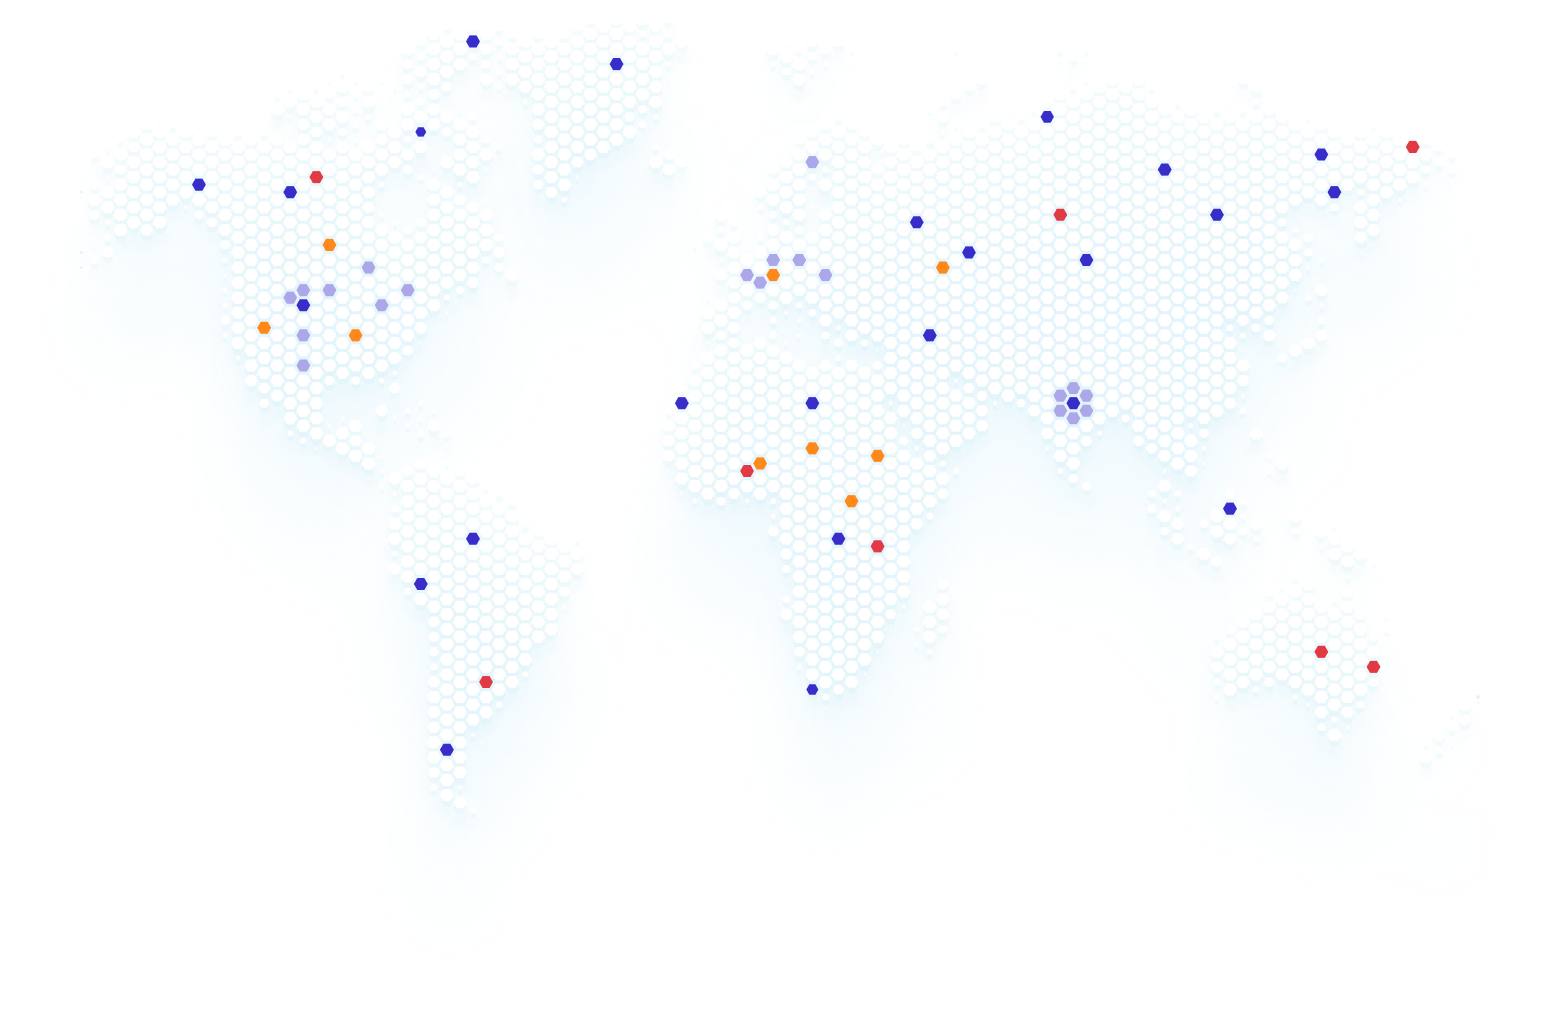
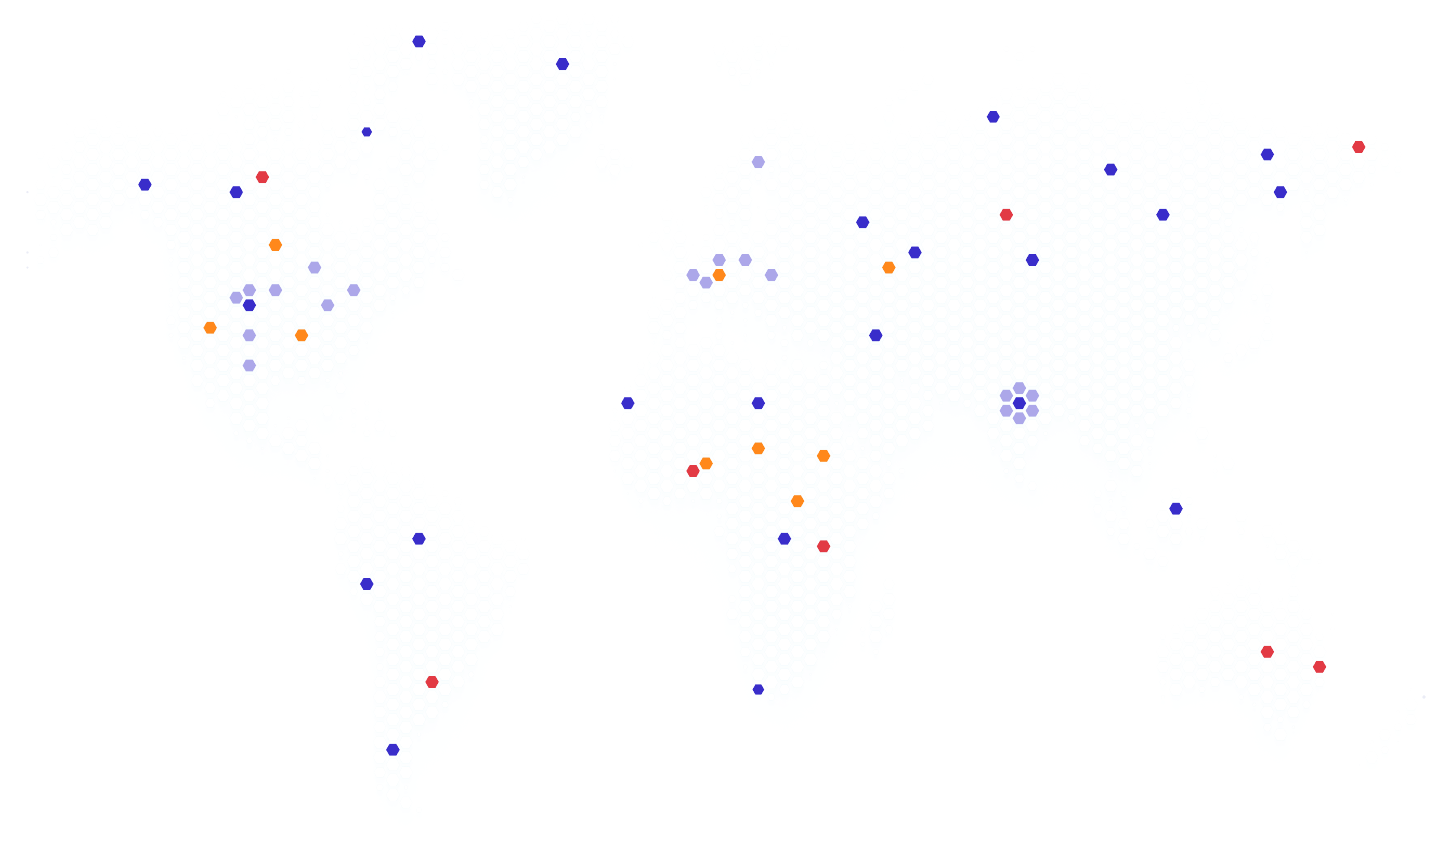
complete our network with cards and remove primary-border

diff --git a/src/components/Main.jsx b/src/components/Main.jsx
@@ -6,26 +6,26 @@ import garnerLogo from '../../public/images/garnier.png'
 import {Link} from 'react-router-dom'
 function Main() {
   return (
-    <main className='primary-border   '>
+    <main className=' '>
       {/* text area  */}
       <div className='h-[45vh] flex-col  justify-items-center gap-20 p-[48px]'>
-              <p className=' w-[45vw] font-bold text-[44px] primary-border text-center'>Solve problem with an integrated agency.</p>
+              <p className=' w-[45vw] font-bold text-[44px]  text-center'>Solve problem with an integrated agency.</p>
               <p className=' my-4 w-[46vw] text-center'>Ehya is the Instagram analytics platform teams use to stay focused on the goals, track 
               engagement for report your business .</p>
       </div>
       {/* our profile and more info button  */}
-      <div className='primary-border h-[10vh]  flex justify-center items-center gap-4'>
+      <div className=' h-[10vh]  flex justify-center items-center gap-4'>
         <button className='text-white bg-[#0075FF] p-[12px] px-[32px] rounded-bl-[40px] rounded-r-[20px]'>See our portfolio</button>
-        <button className=' border-2 border-solid border-gray-300 text-blue-700 bg-[#ffff] p-[12px] px-[36px] rounded-bl-[40px] rounded-r-[20px]'>More info</button>
+        <button className=' border-2 border-solid border-gray-300 text-blue-700 bg-[#ffff] p-[12px] px-[36px] rounded-bl-[40px] rounded-r-[20px] hover:bg-blue-500 hover:text-white'>More info</button>
       </div>
       {/* dashboard */}
-      <div className='primary-border flex justify-center items-center h-[98vh]'>
-        <img src={dashboard} alt="dashboard image" className=' primary-border  h-[80vh]' />
+      <div className=' flex justify-center items-center h-[98vh]'>
+        <img src={dashboard} alt="dashboard image" className='   h-[80vh]' />
       </div>
       {/* Company logos */}
-      <div className='primary-border flex justify-center items-center gap-14 h-[28vh]'>
-        <img src={logoGroup} alt="company logo" className='primary-border' />
-        <img src={garnerLogo} alt="garner logo" className='primary-border'/>
+      <div className=' flex justify-center items-center gap-14 h-[28vh]'>
+        <img src={logoGroup} alt="company logo" className='' />
+        <img src={garnerLogo} alt="garner logo" className=''/>
       </div>
     </main>
   )

diff --git a/src/components/OurNetwork.jsx b/src/components/OurNetwork.jsx
@@ -1,0 +1,57 @@
+import React from 'react'
+import map from '../../public/images/map.png'
+import OurNewtworksCard from './OurNewtworksCard'
+import bagladeshFlag from '../../public/images/bangladeshFlag-icon.jpg'
+import unitedState from '../../public/images/unitedState.webp'
+import australia from '../../public/images/Australia.png'
+import china from '../../public/images/Flag-China.webp'
+
+
+const OurNetworkData=[
+    {
+        img:bagladeshFlag,
+        country:'Bangladesh',
+        desc:"Event madness gathering innoies, & tech enthusiasts in Speced."
+    },
+    {
+        img:unitedState,
+        country:'United States',
+        desc:"Event madness gathering innoies, & tech enthusiasts in Speced."
+    },
+    {
+        img:australia,
+        country:'Australia',
+        desc:"Event madness gathering innoies, & tech enthusiasts in Speced."
+    },
+    {
+        img:china,
+        country:'China',
+        desc:"Event madness gathering innoies, & tech enthusiasts in Speced."
+    }
+]
+
+function OurNetwork() {
+  return (
+    <div className=' px-[110px] h-[166vh] w-[100%] mt-10'>
+        <div className='h-[100%] w-[100%]  bg-[#E2F3F9]'>
+            {/* title */}
+            <div className='h-[30vh] w-[100%]  flex justify-center items-center '>
+                <p className='w-[22vw] text-center font-bold text-[26px]'>Our network & world 
+                        work details.</p>
+            </div>
+            {/* map */}
+            <div className='flex justify-center'>
+                <img src={map} alt="map image" className='h-[98vh] '/>
+            </div>
+            {/* cards */}
+            <div className=' px-[42px] flex gap-5'>
+                {OurNetworkData.map((element,index)=>{
+                    return <OurNewtworksCard key={index} img={element.img} country={element.country} desc={element.desc}/>
+                })}
+            </div>
+        </div>
+    </div>
+  )
+}
+
+export default OurNetwork

diff --git a/src/components/WhyWeBest.jsx b/src/components/WhyWeBest.jsx
@@ -18,16 +18,16 @@ const WhyWeBestCardData=[
 ]
 function WhyWeBest() {
   return (
-     <div className='px-[110px] pl-[15vw] flex primary-border h-[80vh] relative'>
-        <div className='primary-border  w-[35%] h-[100%] rounded-[20px] bg-[#FFA31833]'>
+     <div className='px-[110px] pl-[15vw] flex  h-[80vh] relative'>
+        <div className='  w-[35%] h-[100%] rounded-[20px] bg-[#FFA31833]'>
                 <img src={clayMakup} alt="laptop image"  className='h-[68vh] absolute z-1 top-10 left-0'/>
         </div>
-        <div className='px-[40px] flex flex-col justify-center items-start primary-border w-[75%] h-[100%] gap-3'>
-                <div className='primary-border h-[25vh] w-[100%]'>
+        <div className='px-[40px] flex flex-col justify-center items-start  w-[75%] h-[100%] gap-3'>
+                <div className=' h-[25vh] w-[100%]'>
                     <p className='font-bold text-[40px]'>Why we best ?</p>
                     <p className='text-[#7D82A1]'>Don’t waste time on search manual tasks. Let Automation do it for you. Simplify workflows, reduce errors, and save time.</p>
                 </div>
-                <div className='primary-border h-[45vh] w-[100%] p-[10px]'>
+                <div className=' h-[45vh] w-[100%] p-[10px]'>
                     {WhyWeBestCardData.map((element,index)=>{
                         return <WhyWeBestCards key={index} title={element.title} desc={element.desc}/>
                     })}

diff --git a/src/components/ProvideService.jsx b/src/components/ProvideService.jsx
@@ -32,15 +32,15 @@ const ProvideServiceData=[
 
 function ProvideService() {
   return (
-    <div className='px-[110px] flex primary-border h-[80vh] relative'>
+    <div className='px-[110px] flex  h-[80vh] relative'>
         {/* left text div */}
-      <div className='px-[60px] flex flex-col justify-center items-start primary-border w-[65%] h-[100%] gap-3'>
-        <p className=' primary-border text-[38px] w-[28vw] font-bold '>We provide that service.</p>
+      <div className='px-[60px] flex flex-col justify-center items-start  w-[65%] h-[100%] gap-3'>
+        <p className=' text-[38px] w-[28vw] font-bold '>We provide that service.</p>
         <p className='text-[#7D82A1]'>Sed ut perspiciatis unde omnis iste natus error sit voluptatem accusantium doloremque laudantium, totam rem aperiam, eaque ipsa quae ab illo inventore veritatis et quasi architecto beatae vitae dicta sunt explicabo</p>
         <p className='text-[#0075FF] text-[18px]'>Learn more &rarr;</p>
       </div>
       {/* right cards div */}
-      <div className='primary-border w-[45%] h-[100%] rounded-[20px] bg-[#2FB8E333]'>
+      <div className=' w-[45%] h-[100%] rounded-[20px] bg-[#2FB8E333]'>
            <div className='flex flex-wrap gap-6 p-[32px] absolute z-1  top-7 right-24 w-[40vw]'>
            {ProvideServiceData.map((element,index)=>{
                 return <ProvideServiceCards key={index} img={element.imgSvg} title={element.title} desc={element.desc}/>

diff --git a/src/components/Header.jsx b/src/components/Header.jsx
@@ -3,7 +3,7 @@ import {Link} from 'react-router-dom'
 import logo from '../../public/images/logo.svg'
 function Header() {
   return (
-    <header className='px-[110px] py-[14px] flex items-center gap-[8vw] primary-border'>
+    <header className='px-[110px] py-[14px] flex items-center gap-[8vw] '>
         <div className=''>
             <Link ><img src={logo} alt="logo image" /></Link>
         </div>
@@ -16,10 +16,10 @@ function Header() {
                 <li>Help</li>
             </ul>
         </div>
-        <div className=' flex justify-center items-center gap-[20px] primary-border h-[10vh] w-[20vw]'>
+        <div className=' flex justify-center items-center gap-[20px]  h-[10vh] w-[20vw]'>
             
             <Link><button className='text-blue-500'>sign in</button></Link>
-            <Link><button className='text-blue-500 bg-[#DAEBFF] p-[12px] px-[36px] rounded-bl-[40px] rounded-r-[20px]'>sign up</button></Link>
+            <Link><button className='text-blue-500 bg-[#DAEBFF] p-[12px] px-[36px] rounded-bl-[40px] rounded-r-[20px] hover:bg-blue-500 hover:text-white'>sign up</button></Link>
 
         </div>
 

diff --git a/src/components/ProvideServiceCards.jsx b/src/components/ProvideServiceCards.jsx
@@ -2,7 +2,7 @@ import React from 'react'
 
 function ProvideServiceCards({img,title, desc}) {
   return (
-    <div className=' primary-border p-[22px] bg-white w-[12vw] h-[28vh] rounded-[15px] flex flex-grow flex-col justify-center items-start  gap-2'>
+    <div className='  p-[22px] bg-white w-[12vw] h-[28vh] rounded-[15px] flex flex-grow flex-col justify-center items-start  gap-2 shadow-2xl'>
         <img src={img} alt="" className='border border-solid border-gray-300 rounded-lg '/>
         <p className='font-bold'>{title}</p>
         <p className='text-start text-[#7D82A1]'>{desc}</p>

diff --git a/src/components/SattisticsCard.jsx b/src/components/SattisticsCard.jsx
@@ -3,7 +3,7 @@ import shoppingBag  from "../../public/images/shopping-bag.svg";
 
 function SattisticsCard({img, num, title, desc}) {
   return (
-    <div className='primary-border w-[16vw] h-[34vh] flex flex-grow flex-col justify-center items-center  gap-2'>
+    <div className='w-[16vw] h-[34vh] flex flex-grow flex-col justify-center items-center  gap-2'>
         <img src={img} alt="" className='border border-solid border-gray-300 rounded-lg '/>
         <p className=' font-bold text-4xl'>{num}</p>
         <p className='font-bold'>{title}</p>

diff --git a/src/components/OurNewtworksCard.jsx b/src/components/OurNewtworksCard.jsx
@@ -1,0 +1,14 @@
+import React from 'react'
+function OurNewtworksCard({img,country,desc}) {
+  return (
+    <div className=' w-[18vw] h-[32vh] p-[12px] items-center rounded-[12px] bg-white'>
+      <div className='flex justify-start items-center gap-3'> 
+        <img src={img} alt="flag" className='h-[8vh] w-12 rounded-full object-fill ' />
+        <p className='text-[18px] font-semibold'>{country}</p>
+      </div>
+      <p className='text-[#7C8F9E] mt-3 w-[14vw]'>{desc}</p>
+    </div>
+  )
+}
+
+export default OurNewtworksCard

diff --git a/src/components/Statistics.jsx b/src/components/Statistics.jsx
@@ -33,7 +33,7 @@ import StatisticsData from './staticData.js'
 // ];
 function Statistics() {
   return (
-    <div className=' primary-border h-[40vh] flex justify-center items-center gap-4 px-[120px] '>
+    <div className=' h-[40vh] flex justify-center items-center gap-4 px-[120px] '>
         {StatisticsData.map((element,index)=>{
             return <SattisticsCard key={index} img={element.imgSvg} num={element.num} title={element.title} desc={element.desc}/>
         })}

diff --git a/src/pages/Home.jsx b/src/pages/Home.jsx
@@ -4,6 +4,7 @@ import Main from '../components/Main'
 import Statistics from '../components/Statistics'
 import ProvideService from '../components/ProvideService'
 import WhyWeBest from '../components/WhyWeBest'
+import OurNetwork from '../components/OurNetwork'
 
 function Home() {
   return (
@@ -14,6 +15,7 @@ function Home() {
     <Statistics/> 
     <ProvideService/>
     <WhyWeBest/>
+    <OurNetwork/>
 
     
     </>
